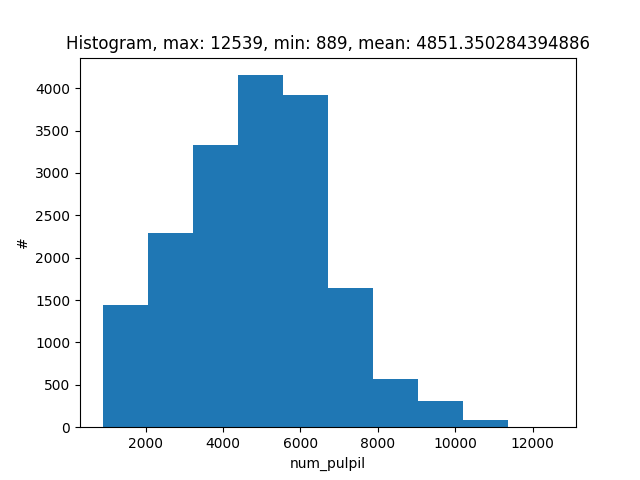
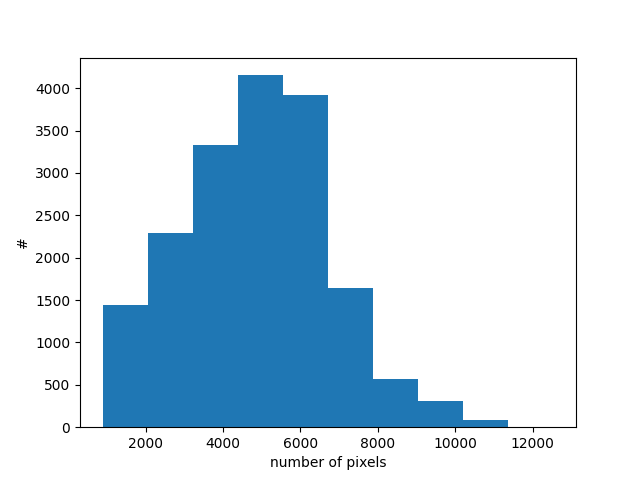
submission version

Changed region(s): [[0.0938, 0.0625, 0.9375, 0.125], [0.4062, 0.9375, 0.5938, 1.0]]

diff --git a/mmseg/apis/test.py b/mmseg/apis/test.py
@@ -93,21 +93,21 @@ def single_gpu_test(model,
         with torch.no_grad():
             result = model(return_loss=False, **data)
         
-        path = data['img_metas'][0].data[0][0]['filename']
-        if path.split('/')[-4] == '..':
-            os.makedirs(os.path.join(path.split('/')[-3],path.split('/')[-2]), exist_ok=True)
-            new_path = os.path.join(path.split('/')[-3],path.split('/')[-2], path.split('/')[-1])
-        else:
-            os.makedirs(os.path.join(path.split('/')[-4],path.split('/')[-3],path.split('/')[-2]), exist_ok=True)
-            new_path = os.path.join(path.split('/')[-4],path.split('/')[-3],path.split('/')[-2], path.split('/')[-1])
+        # path = data['img_metas'][0].data[0][0]['filename']
+        # if path.split('/')[-4] == '..':
+        #     os.makedirs(os.path.join(path.split('/')[-3],path.split('/')[-2]), exist_ok=True)
+        #     new_path = os.path.join(path.split('/')[-3],path.split('/')[-2], path.split('/')[-1])
+        # else:
+        #     os.makedirs(os.path.join(path.split('/')[-4],path.split('/')[-3],path.split('/')[-2]), exist_ok=True)
+        #     new_path = os.path.join(path.split('/')[-4],path.split('/')[-3],path.split('/')[-2], path.split('/')[-1])
         
-        new_path = new_path[:-4] + '.png'
+        # new_path = new_path[:-4] + '.png'
        
-        cv2.imwrite(new_path, np.squeeze((1-np.array(result))*255,axis=0))
+        # cv2.imwrite(new_path, np.squeeze((1-np.array(result))*255,axis=0))
         
-        print(new_path)
+        # print(new_path)
         
-        '''
+        
         if show or out_dir:
             img_tensor = data['img'][0]
             img_metas = data['img_metas'][0].data[0]
@@ -151,7 +151,7 @@ def single_gpu_test(model,
         batch_size = len(result)
         for _ in range(batch_size):
             prog_bar.update()
-    '''
+    
     return results
 
 

diff --git a/submission+post_challenge.py b/submission+post_challenge.py
@@ -61,11 +61,10 @@ def post(folder_list):
             # Draw blobs on our image as red circles
             text = "Number of Circular Blobs: " + str(len(keypoints))
             blank = np.zeros((1, 1))
-            m = cv2.drawKeypoints((1-m)*255, keypoints, blank, (0, 0, 255),
+            m = cv2.drawKeypoints((m)*255, keypoints, blank, (0, 0, 255),
                                     cv2.DRAW_MATCHES_FLAGS_DRAW_RICH_KEYPOINTS)
             
-            if len(keypoints)>0:
-                print(keypoints[0].size)
+           
             cv2.putText(m, text, (20, 550),
                     cv2.FONT_HERSHEY_SIMPLEX, 1, (0, 100, 255), 2)
             number_of_blobs = len(keypoints)

diff --git a/prepare_data.py b/prepare_data.py
@@ -37,12 +37,14 @@ if __name__ == '__main__':
         
     num_pulpil_list = [i  for i in num_pulpil_list if i!=0] 
     n, bins, patches=plt.hist(num_pulpil_list)
+    print(f"Number of pixels that are labeled as pupil per image")
     np.array(num_pulpil_list)
-    plt.xlabel("num_pulpil")
+    plt.xlabel("number of pixels")
     plt.ylabel("#")
-    plt.title(f"Histogram, max: {np.array(num_pulpil_list).max()}, min: {np.array(num_pulpil_list).min()}, mean: {np.array(num_pulpil_list).mean()}")
+    plt.title('')
     plt.savefig(f"Histogram")
     np.array(num_pulpil_list)
+    
    
     
    

diff --git a/cpu_inference_end2end/README.md b/cpu_inference_end2end/README.md
@@ -1,0 +1,20 @@
+# Data structure 
+# Before run run_all.sh, make share puting the datasets as the following structure and name it correctly:
+|---R09246003
+    |---README.md
+    |---S5
+        |---01, 02, 03, ..., 26
+            |---0.jpg, 1.jpg, ...
+    |---hidden
+        |---S11, S22, S33(此處subject名稱僅為範例)
+            |---01, 02, 03...  (S11, S22, S33底下的資料夾數量不同)
+                |---0.jpg, 1.jpg, ...
+    |---challenge
+        |---HM
+        |---KL  (rename 11.png, 12.png to 11.jpg, 12.jpg)
+    
+# Running steps
+1. conda create --name NoteammateHeHe python=3.8 -y
+2. conda activate NoteammateHeHe
+3. sh run_all.sh (remember to press y)
+Result (hidden_mask.zip) will be saved to R09246003/hidden_mask.zip
